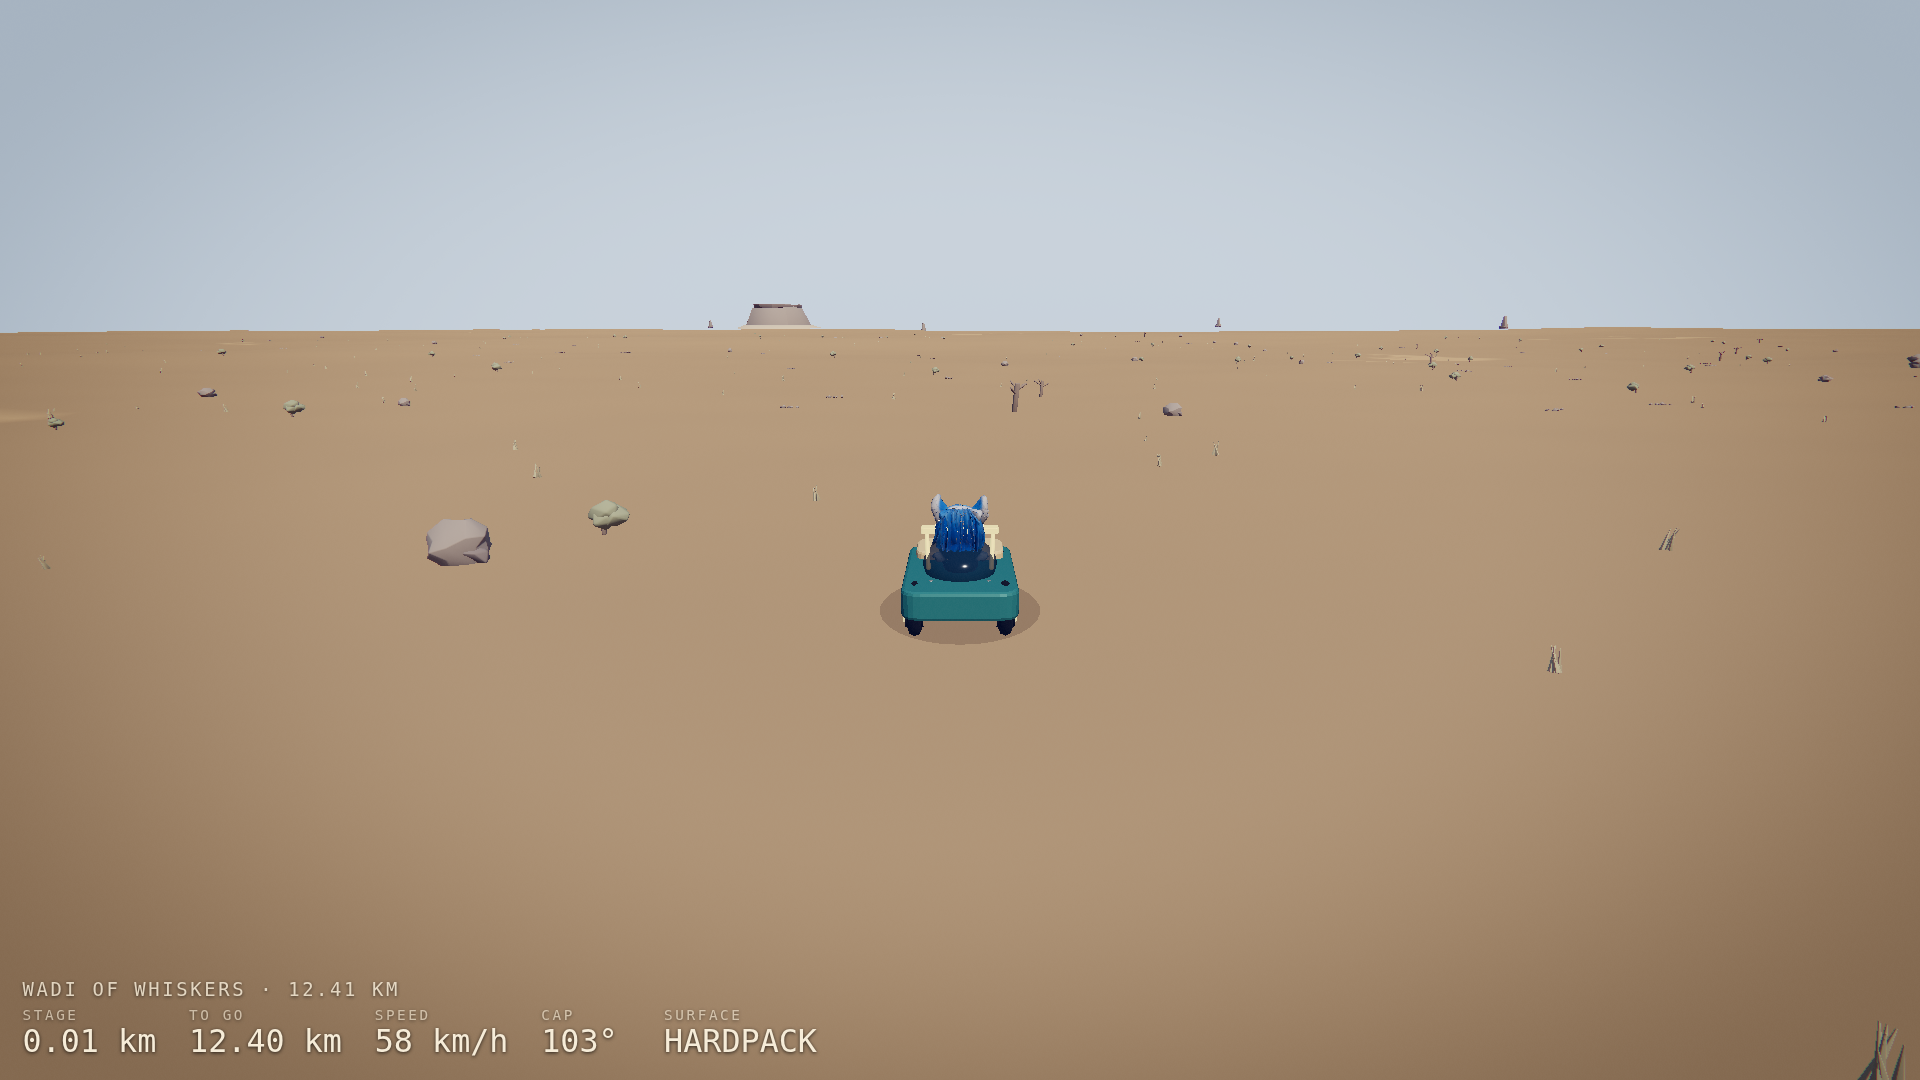
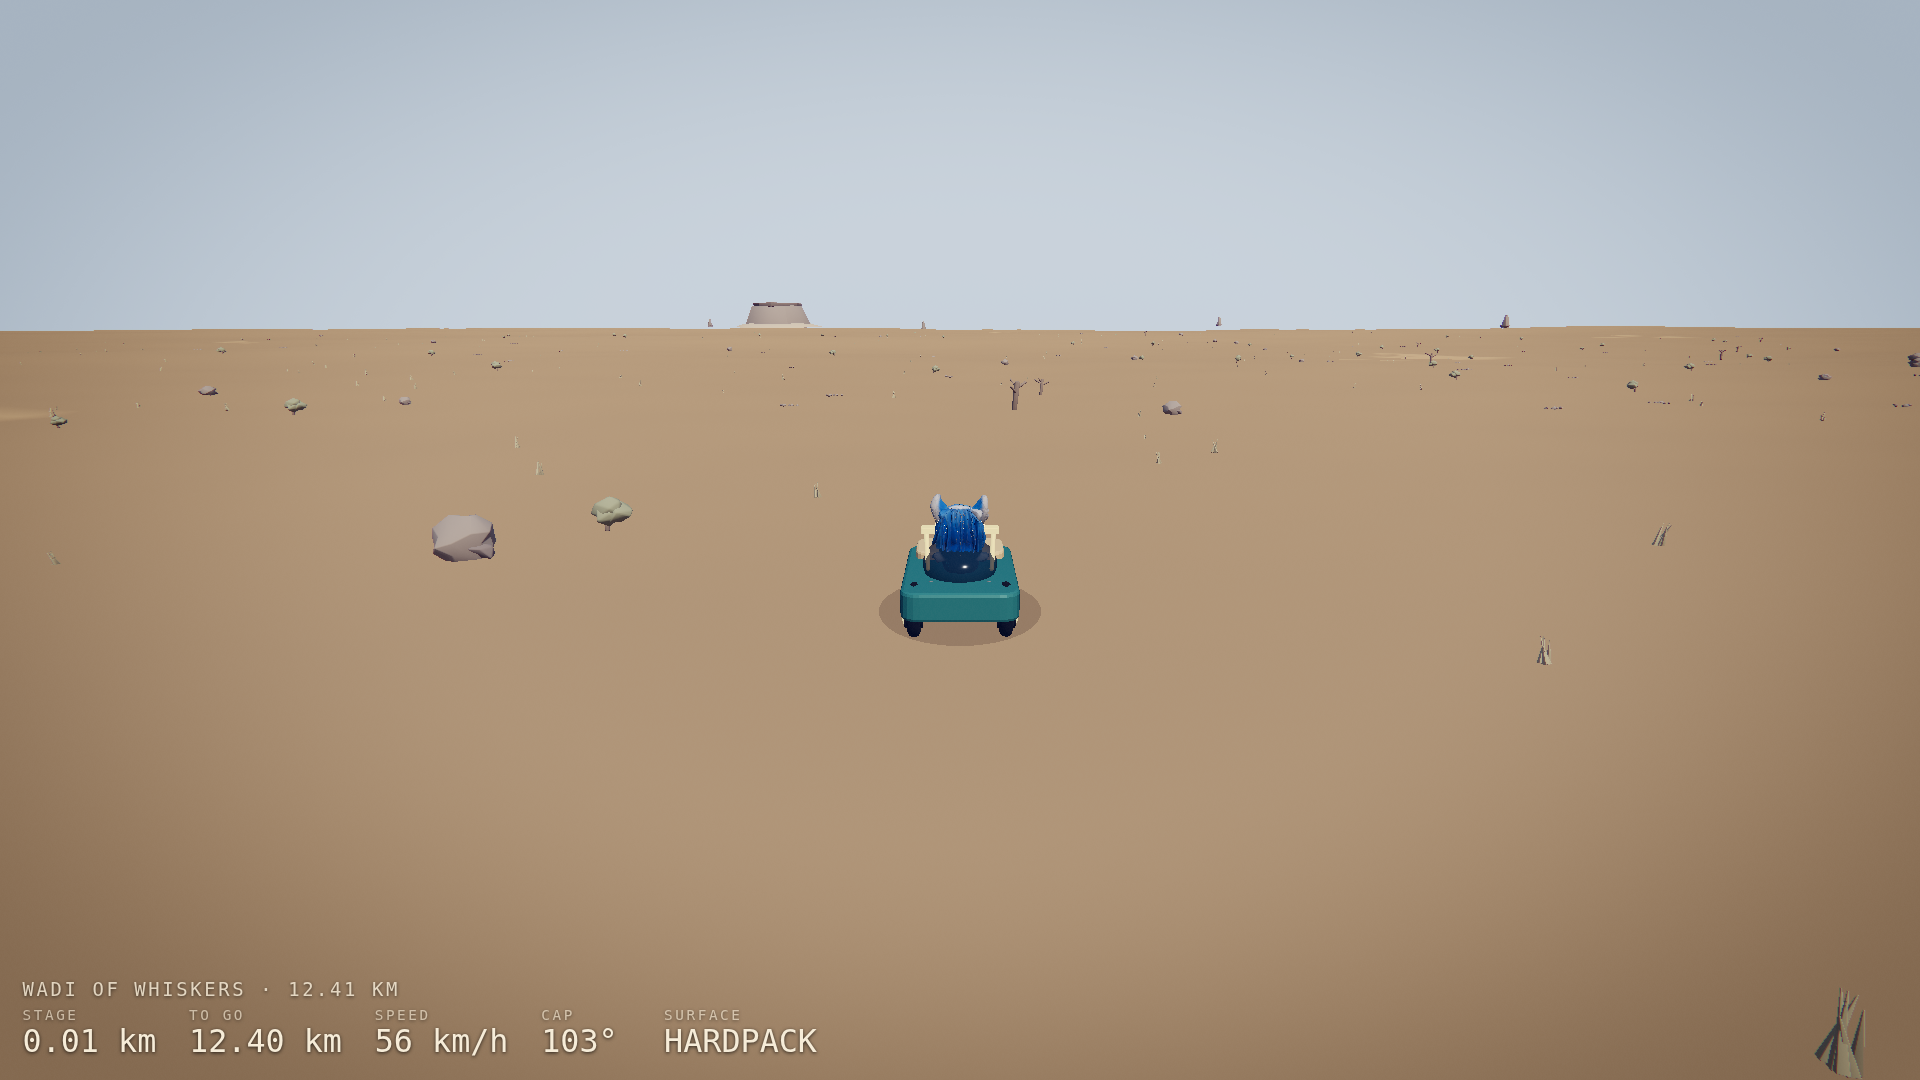
Open Kaki Rally Raid on the public build
Raid is now reachable from ?mode=raid&play=1 on any origin, at the owner's
explicit instruction. It is deliberately not advertised: the menu's card table
is a frozen file with no Raid entry, so it is reached only by direct link, and
its availability label reads PREVIEW rather than READY.

Kaki Catastrophe's gate is untouched and still requires dev=catastrophe on
localhost. The isolation test now asserts both intents: the public deep link
must reach Raid, and the production menu must not mention it.

The browser lifecycle test drives the public URL shape rather than the
development one, since that is the URL a player actually uses.

diff --git a/src/racing/racingModeAvailability.js b/src/racing/racingModeAvailability.js
@@ -15,26 +15,19 @@ export function getRacingModeAvailability(mode, {
   development = false,
   raidDevelopment = false,
 } = {}) {
-  // Kaki Rally Raid is a new discipline still behind its own development flag.
-  // It needs an explicit branch because the default below reports every unknown
-  // mode id as publicly available, which would expose it from the menu the
-  // moment a route pointed at it. It runs on both renderer backends.
+  // Kaki Rally Raid needs an explicit branch so its status and label stay
+  // honest rather than falling through to the plain AVAILABLE default the
+  // finished modes use. It runs on both renderer backends.
   if (String(mode || '') === 'raid') {
-    if (!raidDevelopment) {
-      return Object.freeze({
-        status: 'development',
-        canLaunch: false,
-        reason: 'raid-development-flag',
-        label: 'IN DEVELOPMENT',
-        detail: 'Kaki Rally Raid is not finished; open it with the local development route.',
-      });
-    }
+    // Playable on any origin, but deliberately not advertised: it has no menu
+    // card, so only someone who knows the deep link arrives here. The label
+    // stays honest about how finished it is.
     return Object.freeze({
-      status: 'development',
+      status: raidDevelopment ? 'development' : 'preview',
       canLaunch: true,
-      reason: 'localhost-development-flag',
-      label: 'DEV ONLY',
-      detail: 'Desert Expedition enabled explicitly for this localhost session.',
+      reason: raidDevelopment ? 'localhost-development-flag' : 'deep-link-preview',
+      label: raidDevelopment ? 'DEV' : 'PREVIEW',
+      detail: 'Desert Expedition is an unfinished preview reached by direct link.',
     });
   }
   if (String(mode || '') !== 'crash') return AVAILABLE;

diff --git a/src/app/rallyRouter.js b/src/app/rallyRouter.js
@@ -31,15 +31,18 @@ export function readRallyRoute(url = globalThis.location?.href || 'https://local
     isLocalDevelopmentUrl(parsed)
     && developmentFlag === 'catastrophe'
   );
-  // Kaki Rally Raid uses its own flag value so the two development routes
-  // cannot enable or cancel each other.
+  // Kaki Rally Raid is playable from its deep link on any origin. It keeps its
+  // own flag value so the two development routes cannot enable or cancel each
+  // other, but the flag now only marks a local development session; it is no
+  // longer required to reach the mode.
   const raidDevelopment = (
     isLocalDevelopmentUrl(parsed)
     && (developmentFlag === '1' || developmentFlag === 'raid')
   );
   const requestedMode = normalizeRouteMode(parsed.searchParams.get('mode'));
-  const gatedMode = (requestedMode === 'crash' && !catastropheDevelopment)
-    || (requestedMode === 'raid' && !raidDevelopment);
+  // Raid has no menu card, so it is reachable by URL only. Catastrophe stays
+  // gated to an explicit localhost development flag.
+  const gatedMode = requestedMode === 'crash' && !catastropheDevelopment;
   return Object.freeze({
     mode: gatedMode ? null : requestedMode,
     renderer: parsed.searchParams.get('renderer'),

diff --git a/docs/raid/ARCHITECTURE.md b/docs/raid/ARCHITECTURE.md
@@ -12,9 +12,11 @@ does not exist.
 
 ## Isolation
 
-Raid is reached only from `?mode=raid&play=1&dev=1` on localhost. Off localhost,
-or without `dev=1`, the router resolves the mode to `null` and the player lands
-on the menu.
+Raid is reachable from `?mode=raid&play=1` on any origin, including the public
+build. It is **not advertised**: the menu's card table is a frozen file with no
+Raid entry, so only someone given the link arrives there, and its availability
+label reads PREVIEW rather than READY. Kaki Catastrophe stays gated to an
+explicit `dev=catastrophe` flag on localhost, unchanged.
 
 Dependencies flow one way:
 
@@ -170,7 +172,7 @@ rock, compacted sand and loose sand along the driving line. Minimum turn radius
 
 ## What the mode does today
 
-`?mode=raid&play=1&dev=1` on localhost opens Wadi of Whiskers, streams the
+`?mode=raid&play=1` opens Wadi of Whiskers, streams the
 opening sectors, and hands over a drivable vehicle with a chase camera and a
 `kkr-` HUD showing stage distance, distance remaining, speed, CAP and surface.
 

diff --git a/docs/raid/QA_REPORT.md b/docs/raid/QA_REPORT.md
@@ -124,8 +124,13 @@ the specification's §46 delivery list, the following are **not delivered**:
   deferred until there is a playable mode to describe. Editing them now would
   advertise a discipline that cannot be launched.
 
-## Not done, as instructed
+## Release state
 
-Nothing was pushed. Nothing was deployed. The GitHub Pages build is untouched.
-The development flag remains in place. No other mode was altered to make this
-report look cleaner.
+Pushed and deployed to GitHub Pages at the owner's explicit instruction, after
+the concern about publishing an unfinished mode was raised and overruled twice.
+
+Raid is playable from `?mode=raid&play=1` on the public build. It is not
+advertised anywhere in the UI: the menu has no Raid card, so it is reachable
+only by direct link, and its availability label reads PREVIEW.
+
+No other mode was altered to make this report look cleaner.
